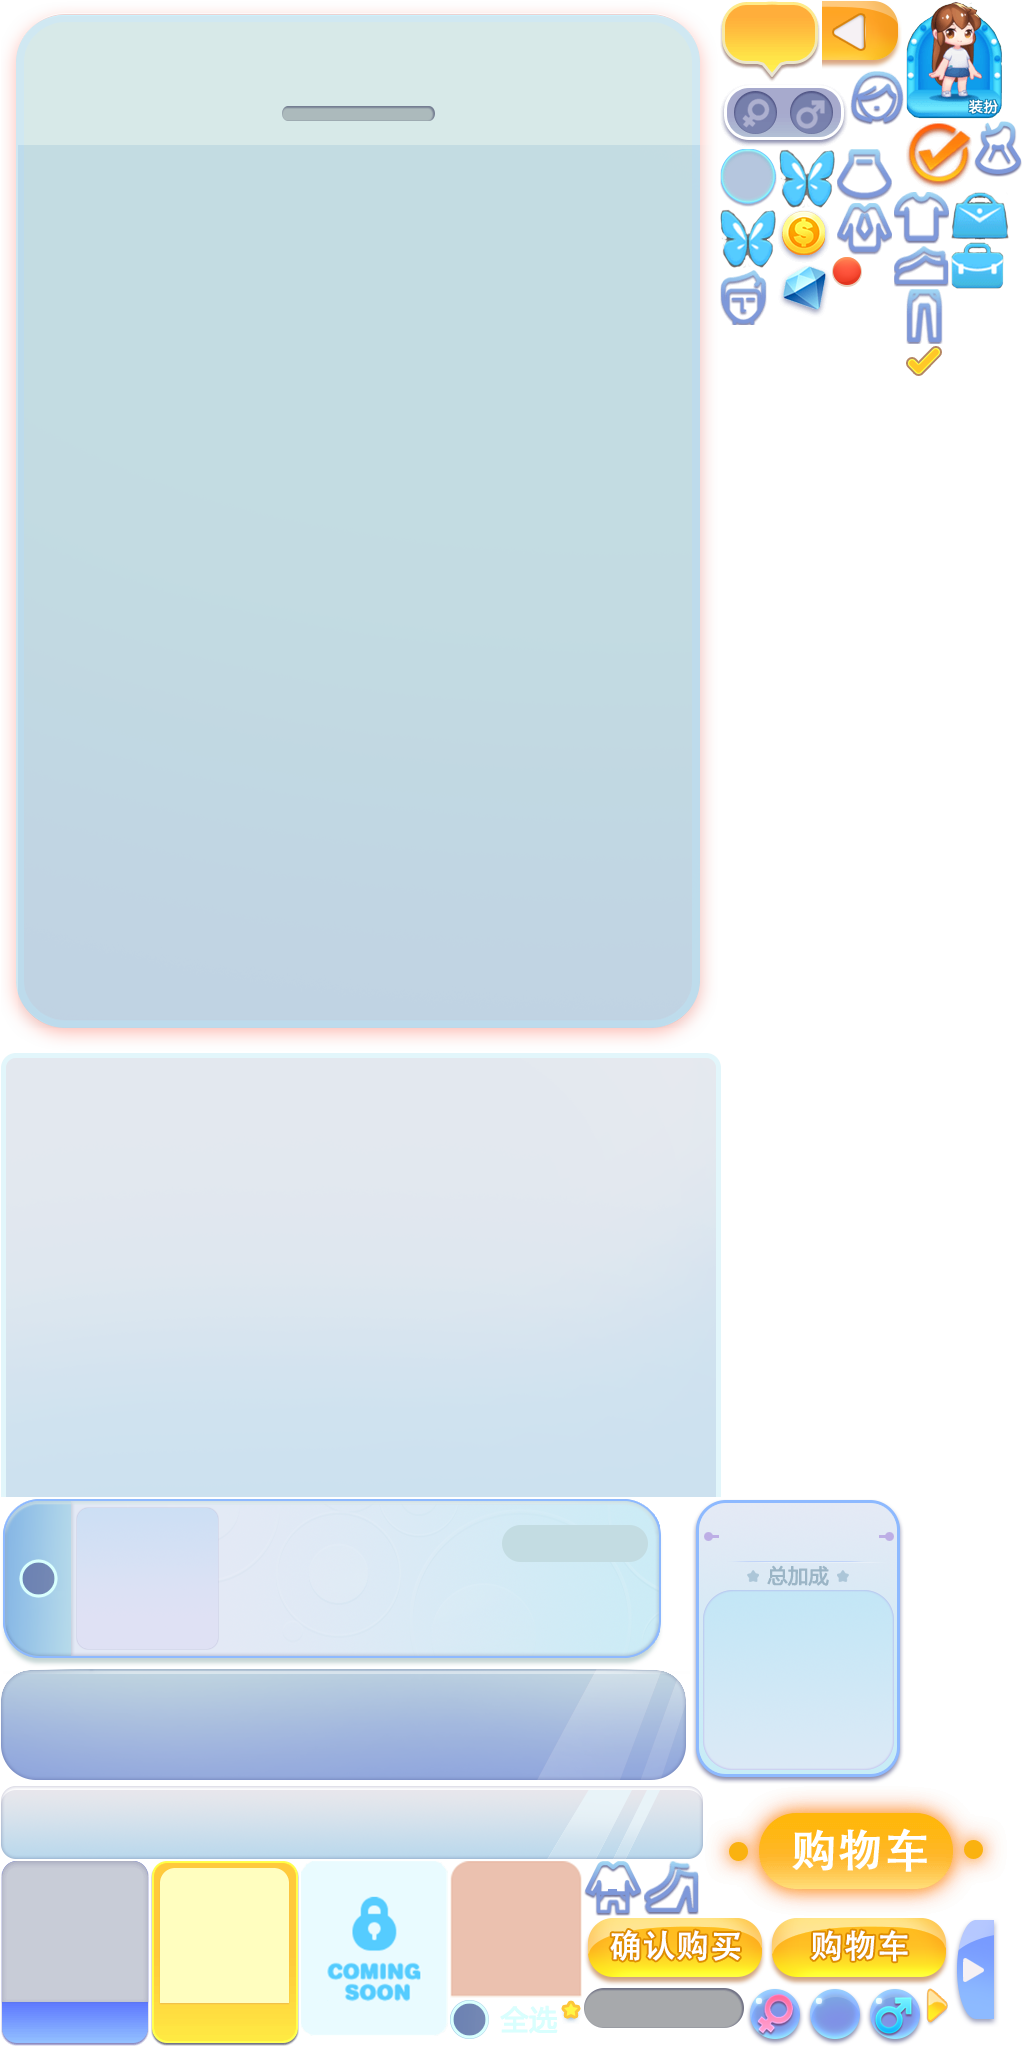
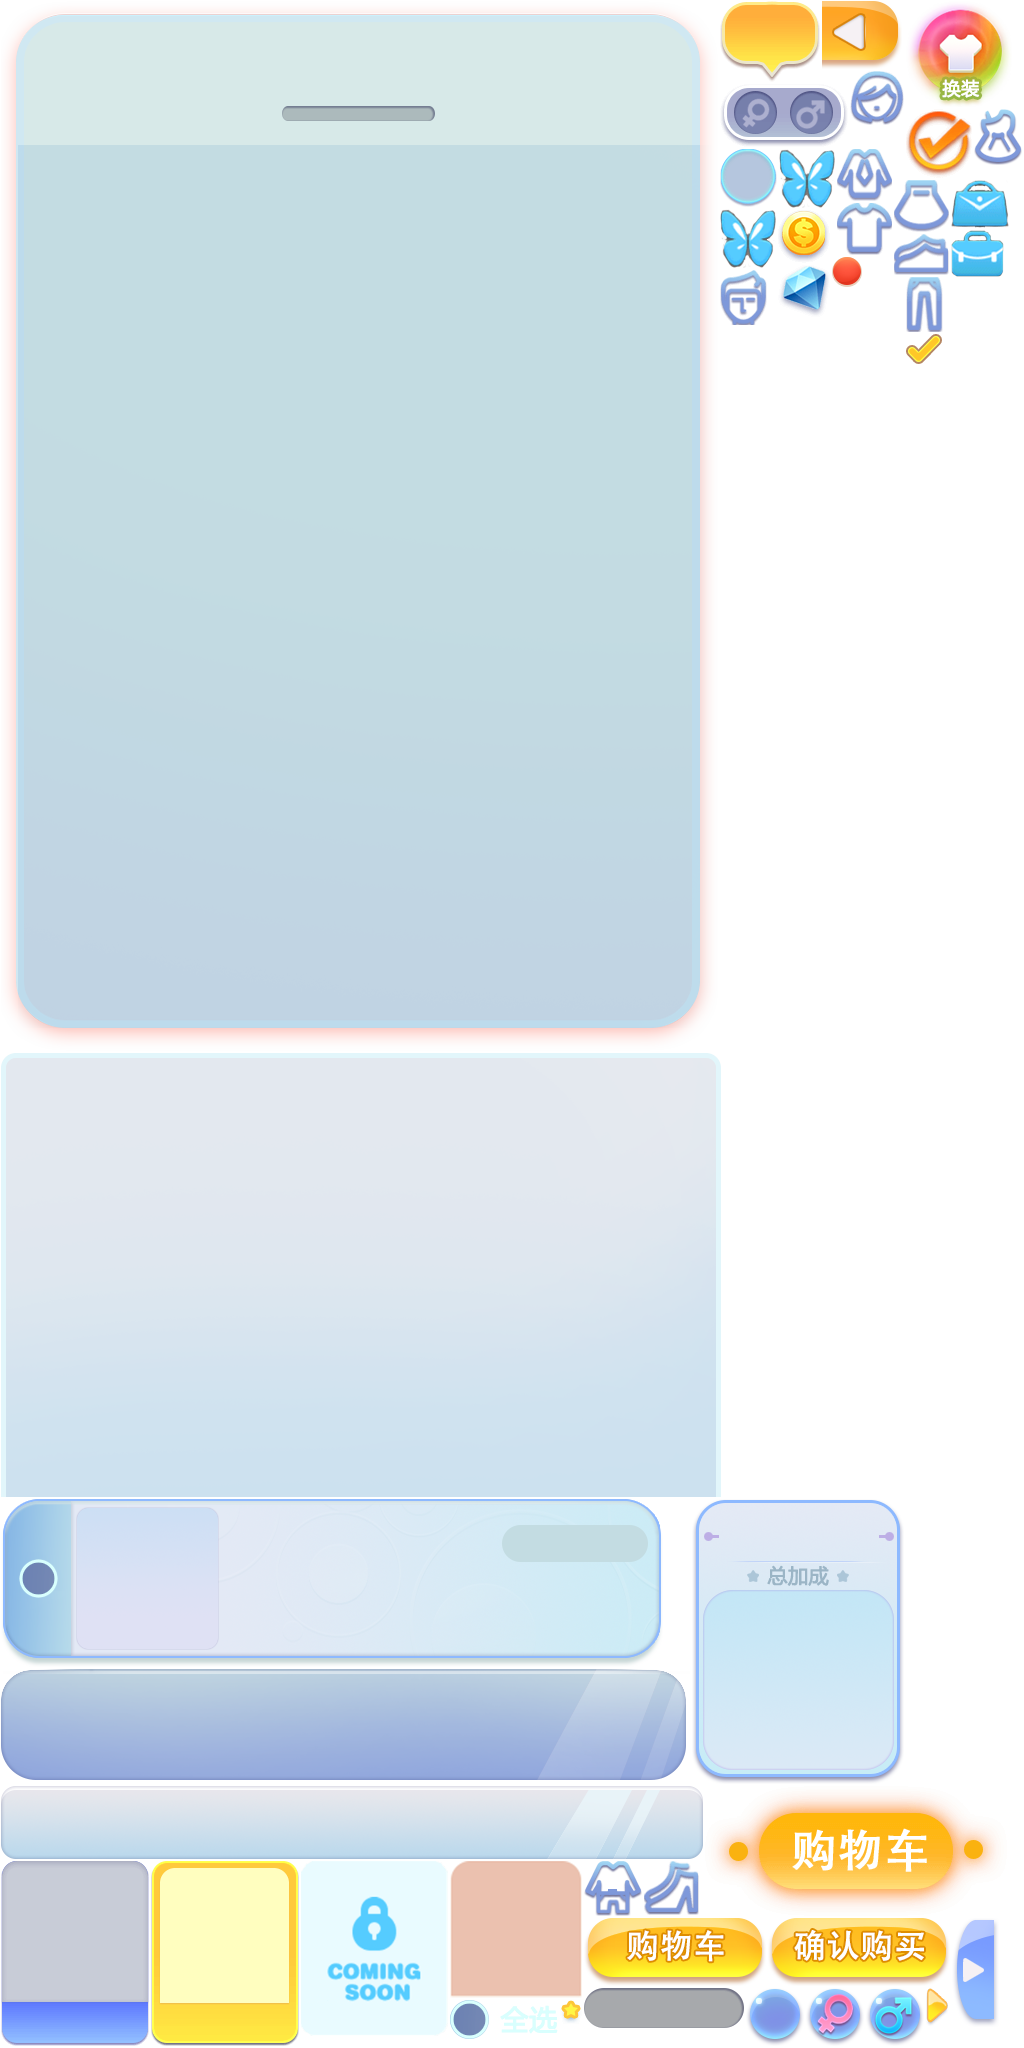
主界面更新

Changed region(s): [[0.8125, 0.0, 1.0, 0.1875], [0.7188, 0.9375, 0.9062, 1.0], [0.5938, 0.9375, 0.7188, 0.9688]]

diff --git a/ClientBoss/src/core/scenes/main/MainScene.ts b/ClientBoss/src/core/scenes/main/MainScene.ts
@@ -5,6 +5,7 @@ module game {
         rankButton: IconButton;
         userButton: IconButton;
         luckyButton: IconButton;
+        bagButton   : IconButton;
         titleImage: eui.Image;
         rankLabel: eui.Label;
         public btn_dress: game.IconButton;
@@ -14,6 +15,7 @@ module game {
             this.rankButton.icon = "ui_json.paihang";
             this.userButton.icon = "ui_json.userMainBtn";
             this.luckyButton.icon = "ui_json.luckMainBtn";
+            this.bagButton.icon  = "ui_json.bagGo";
             this.titleImage.y = gameConfig.curHeight() * 0.1;
             this.btn_dress.icon = "dress_01_json.dress_01_18";
         }
@@ -30,6 +32,7 @@ module game {
                 { target: this.userButton, callBackFunc: this.userHandle },
                 { target: this.luckyButton, callBackFunc: this.luckyHandle },
                 { target: this.btn_dress, callBackFunc: this.dressHandle },
+                { target: this.bagButton, callBackFunc: this.bagGoHandle}
             ];
             this.lightImage.rotation = 0;
             egret.Tween.get(this.lightImage, { loop: true }).to({ rotation: 360 }, 10000);
@@ -59,6 +62,11 @@ module game {
         private luckyHandle() {
             openPanel(PanelType.lucky);
         }
+
+        private bagGoHandle() {
+            openPanel(PanelType.bag);
+        }
+        
         protected beforeRemove() {
             egret.Tween.removeTweens(this.lightImage);
         }
